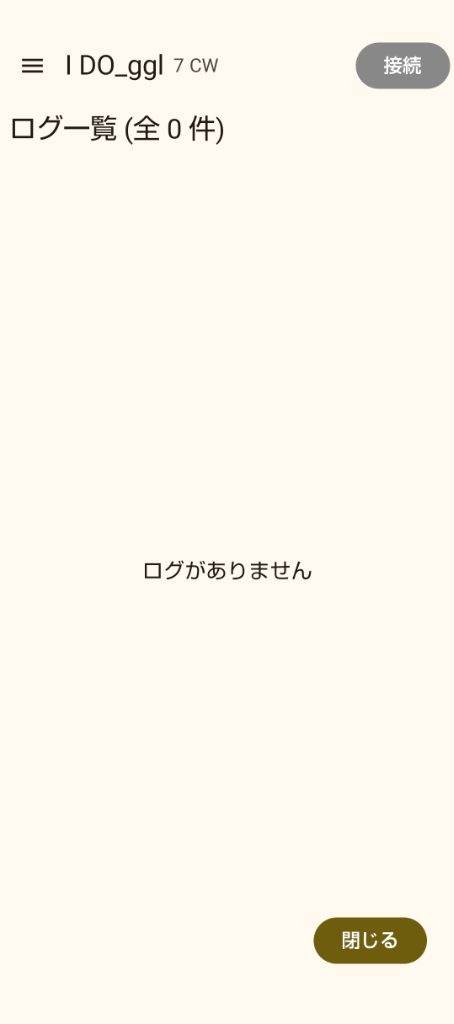
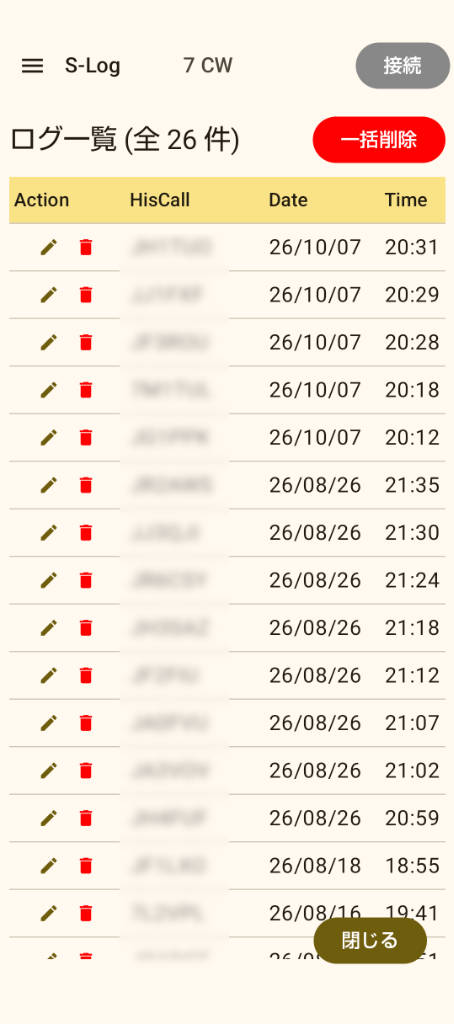
docs: add manual HTML page and log screen screenshot

diff --git a/docs/manual.html b/docs/manual.html
@@ -383,7 +383,8 @@
           <p class="section-lead">左上のハンバーガーメニューから各画面を自由に切り替えることができます</p>
         </div>
 
-        <div class="drawer-menu-guide" style="display: flex; flex-wrap: wrap; gap: 24px; align-items: center; margin: 20px 0; background: var(--bg-surface); border: 1px solid var(--border-subtle); border-radius: 16px; padding: 20px 24px;">
+        <div class="drawer-menu-guide"
+          style="display: flex; flex-wrap: wrap; gap: 24px; align-items: center; margin: 20px 0; background: var(--bg-surface); border: 1px solid var(--border-subtle); border-radius: 16px; padding: 20px 24px;">
           <div style="flex: 0 0 160px; max-width: 160px; margin: 0 auto;">
             <div class="phone-mockup" style="border-width: 6px; border-radius: 22px;">
               <div class="phone-notch" style="height: 8px; width: 44px; top: 4px;"></div>
@@ -1168,41 +1169,48 @@
         <div class="section-header">
           <span class="section-number">Chapter 8</span>
           <h2 class="section-title">利用規約および免責事項</h2>
-          <p class="section-lead">アプリのご利用にあたっての条件です</p>
+          <p class="section-lead">アプリのご利用にあたって</p>
         </div>
 
         <div class="terms-box">
-          <div class="terms-article">
-            <h4>第1条（データの管理と自己責任）</h4>
-            <p>1. 本アプリが扱う無線通信ログ等のデータ（以下、「ユーザーデータ」といいます）は、ユーザーの端末内にのみ保存されます。開発者がサーバー等でユーザーデータをバックアップまたは同期する仕組みは提供しておりません。
-            </p>
-            <p>2. 端末の紛失、故障、機種変更、アプリの削除、またはその他の事由によりユーザーデータが消失した場合、開発者は復旧の義務を負わず、これにより生じた損害について一切の責任を負いません。</p>
-            <p>3. ユーザーは、大切なデータを保護するため、本アプリのエクスポート機能等を利用し、定期的に外部へバックアップを保存するなど、自己の責任においてデータを管理するものとします。</p>
+          <p style="margin-bottom: 16px; font-size: 0.95rem; line-height: 1.7;">
+            「CW Log for portable operation」（アプリ名：CW Log）の利用規約および免責事項の全文は、以下の専用ページにて定めております。アプリのご利用前に必ずご確認ください。
+          </p>
+
+          <div style="margin: 24px 0;">
+            <a href="../ido_kiyaku.html" class="btn btn-primary" target="_blank" rel="noopener noreferrer"
+              style="padding: 12px 24px; font-size: 1rem;">
+              <svg width="20" height="20" viewBox="0 0 24 24" fill="none" stroke="currentColor" stroke-width="2"
+                stroke-linecap="round" stroke-linejoin="round">
+                <path d="M14 2H6a2 2 0 0 0-2 2v16a2 2 0 0 0 2 2h12a2 2 0 0 0 2-2V8z"></path>
+                <polyline points="14 2 14 8 20 8"></polyline>
+                <line x1="16" y1="13" x2="8" y2="13"></line>
+                <line x1="16" y1="17" x2="8" y2="17"></line>
+                <polyline points="10 9 9 9 8 9"></polyline>
+              </svg>
+              利用規約および免責事項（全文）を開く
+              <svg width="15" height="15" viewBox="0 0 24 24" fill="none" stroke="currentColor" stroke-width="2"
+                stroke-linecap="round" stroke-linejoin="round" style="margin-left: 4px;">
+                <path d="M18 13v6a2 2 0 0 1-2 2H5a2 2 0 0 1-2-2V8a2 2 0 0 1 2-2h6"></path>
+                <polyline points="15 3 21 3 21 9"></polyline>
+                <line x1="10" y1="14" x2="21" y2="3"></line>
+              </svg>
+            </a>
           </div>
 
-          <div class="terms-article">
-            <h4>第2条（免責事項・サービスの非保証）</h4>
-            <p>1. 開発者は、本アプリがユーザーの特定の目的に適合すること、期待する機能・正確性・有用性を有すること、および不具合が生じないことについて、明示的にも黙示的にも一切保証しません。</p>
-            <p>2.
-              本アプリのエクスポート機能によって出力されたデータについて、他社製のログ管理ソフト、外部の無線サービス（LoTW、eQSL等）、アワード申請システム等との完全な互換性や正確な読み込みを保証するものではありません。
-            </p>
-            <p>3. 本アプリの利用、または利用できなかったことによりユーザーまたは第三者に生じた損害について、開発者は一切の責任を負いません。</p>
-          </div>
-
-          <div class="terms-article">
-            <h4>第3条（アプリ内課金および返金）</h4>
-            <p>1. 本アプリは基本無料で利用できますが、一部の機能（データエクスポート機能等）はアプリ内課金（有料）により提供されます。</p>
-            <p>2. 有料機能の決済、課金情報の管理、および返金に関する手続きは、各アプリストア（Google Play等）が提供する決済システムを通じて行われます。</p>
-          </div>
-
-          <div class="terms-article">
-            <h4>第4条（損害賠償の制限）</h4>
-            <p>開発者に過失がある場合など損害賠償責任を負う場合、その賠償額は、原因となった事由が発生した日までにユーザーが本アプリに対して実際に支払った総額（課金金額）を上限とします。</p>
-          </div>
-
-          <div class="terms-article">
-            <h4>第5条（規約の変更） / 第6条（準拠法および裁判管轄）</h4>
-            <p>本規約の解釈および適用にあたっては、日本法を準拠法とし、東京地方裁判所を第一審の専属的合意管轄裁判所とします。</p>
+          <div class="callout callout-info" style="margin-top: 24px;">
+            <svg width="20" height="20" viewBox="0 0 24 24" fill="none" stroke="currentColor" stroke-width="2">
+              <circle cx="12" cy="12" r="10"></circle>
+              <line x1="12" y1="16" x2="12" y2="12"></line>
+              <line x1="12" y1="8" x2="12.01" y2="8"></line>
+            </svg>
+            <div>
+              <strong>重要事項のご案内:</strong>
+              <ul style="margin: 6px 0 0 18px; padding: 0; line-height: 1.7;">
+                <li>交信ログ等のデータは端末内にのみ保存されます。端末の故障や機種変更等に備え、定期的な外部バックアップ（CSV / ADIFエクスポート）をお勧めいたします。</li>
+                <li>データ消失による損害等について開発者は一切の責任を負いかねますので、自己責任において管理をお願いいたします。</li>
+              </ul>
+            </div>
           </div>
         </div>
       </section>
@@ -1242,7 +1250,7 @@
       <a href="#section-3-3">メイン画面</a>
       <a href="#section-4">マクロタグ</a>
       <a href="#section-7">Q&A</a>
-      <a href="#section-8">利用規約</a>
+      <a href="../ido_kiyaku.html" target="_blank" rel="noopener noreferrer">利用規約</a>
     </div>
     <p>&copy; CW Log for portable operation. All rights reserved.</p>
   </footer>
